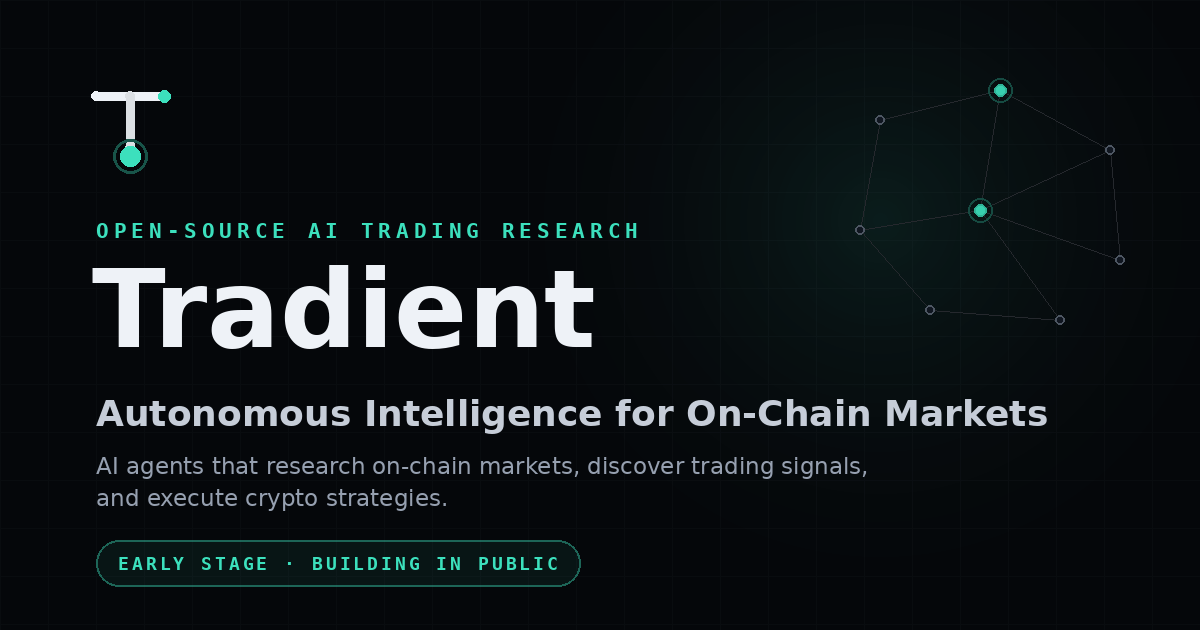
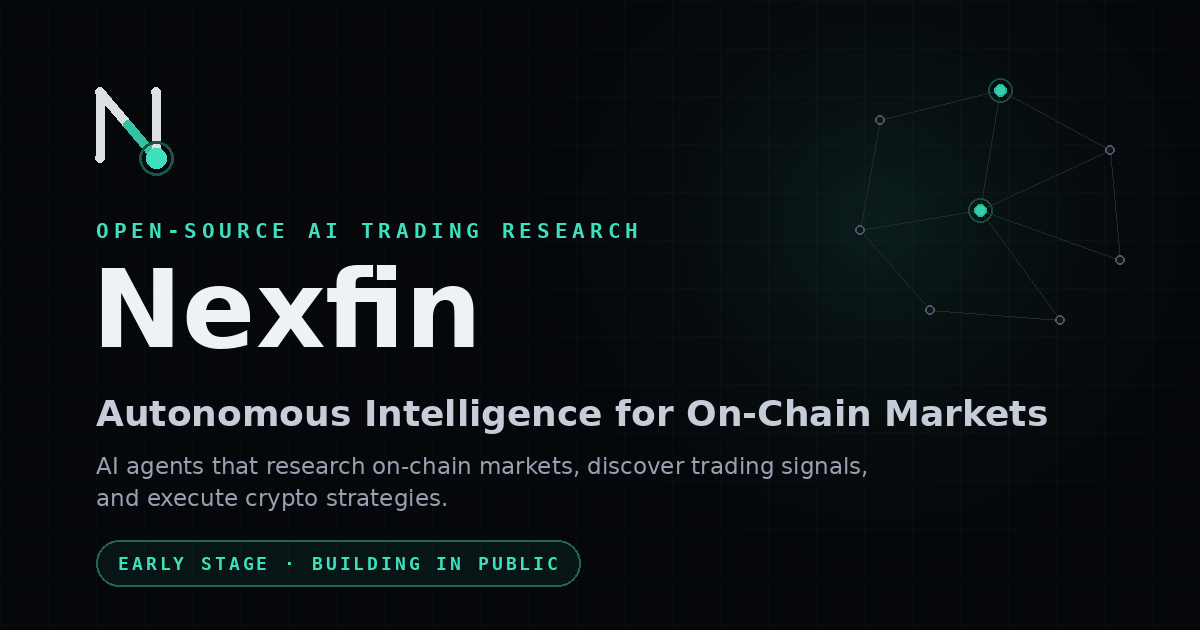
chnage name ...

Changed region(s): [[0.0617, 0.4222, 0.4933, 0.573], [0.0617, 0.1206, 0.1542, 0.2714]]

diff --git a/index.html b/index.html
@@ -6,10 +6,10 @@
     <meta name="color-scheme" content="dark" />
     <meta name="theme-color" content="#05070a" />
 
-    <title>Tradient — Autonomous Intelligence for On-Chain Markets</title>
+    <title>Nexfin — Autonomous Intelligence for On-Chain Markets</title>
     <meta
       name="description"
-      content="Tradient builds autonomous AI agents that research on-chain markets, discover trading signals, and execute crypto strategies. An open-source research platform for on-chain trading intelligence."
+      content="Nexfin builds autonomous AI agents that research on-chain markets, discover trading signals, and execute crypto strategies. An open-source research platform for on-chain trading intelligence."
     />
 
     <!--
@@ -24,8 +24,8 @@
 
     <!-- Open Graph -->
     <meta property="og:type" content="website" />
-    <meta property="og:site_name" content="Tradient" />
-    <meta property="og:title" content="Tradient — Autonomous Intelligence for On-Chain Markets" />
+    <meta property="og:site_name" content="Nexfin" />
+    <meta property="og:title" content="Nexfin — Autonomous Intelligence for On-Chain Markets" />
     <meta
       property="og:description"
       content="AI agents that research on-chain markets, discover trading signals, and execute crypto strategies. Built in the open."
@@ -34,11 +34,11 @@
     <meta property="og:image" content="https://your-org.github.io/og-image.png" />
     <meta property="og:image:width" content="1200" />
     <meta property="og:image:height" content="630" />
-    <meta property="og:image:alt" content="Tradient — Autonomous Intelligence for On-Chain Markets" />
+    <meta property="og:image:alt" content="Nexfin — Autonomous Intelligence for On-Chain Markets" />
 
     <!-- Twitter / X -->
     <meta name="twitter:card" content="summary_large_image" />
-    <meta name="twitter:title" content="Tradient — Autonomous Intelligence for On-Chain Markets" />
+    <meta name="twitter:title" content="Nexfin — Autonomous Intelligence for On-Chain Markets" />
     <meta
       name="twitter:description"
       content="AI agents that research on-chain markets, discover trading signals, and execute crypto strategies. Built in the open."
@@ -58,18 +58,18 @@
       {
         "@context": "https://schema.org",
         "@type": "Organization",
-        "name": "Tradient",
+        "name": "Nexfin",
         "url": "https://your-org.github.io/",
         "logo": "https://your-org.github.io/apple-touch-icon.png",
         "description": "Autonomous AI agents that research on-chain markets, discover trading signals, and execute crypto strategies.",
-        "sameAs": ["https://github.com/your-org/tradient"]
+        "sameAs": ["https://github.com/your-org/nexfin"]
       }
     </script>
   </head>
   <body>
     <div id="root">
       <noscript>
-        Tradient builds autonomous AI agents for on-chain market research, signal discovery, and
+        Nexfin builds autonomous AI agents for on-chain market research, signal discovery, and
         trading. Please enable JavaScript to view this site.
       </noscript>
     </div>

diff --git a/src/components/Logo.tsx b/src/components/Logo.tsx
@@ -2,12 +2,12 @@ import { useId } from 'react'
 import { cx } from '../lib/cx'
 
 /**
- * Tradient mark: a "T" built as a data rail — a gradient crossbar,
- * a stem, and a glowing signal node at the terminal.
+ * Nexfin mark: an "N" drawn as a signal path — two vertical rails joined
+ * by a gradient diagonal that terminates in a glowing signal node.
  */
 export function LogoMark({ className }: { className?: string }) {
   const rawId = useId().replace(/:/g, '')
-  const gradId = `tm-bar-${rawId}`
+  const gradId = `nx-bar-${rawId}`
 
   return (
     <svg
@@ -18,15 +18,16 @@ export function LogoMark({ className }: { className?: string }) {
       focusable="false"
     >
       <defs>
-        <linearGradient id={gradId} x1="6" y1="8" x2="26" y2="8" gradientUnits="userSpaceOnUse">
+        <linearGradient id={gradId} x1="8" y1="7" x2="24" y2="25" gradientUnits="userSpaceOnUse">
           <stop stopColor="#eef2f7" />
           <stop offset="1" stopColor="#3ce0bd" />
         </linearGradient>
       </defs>
-      <path d="M6 8h20" stroke={`url(#${gradId})`} strokeWidth="3" strokeLinecap="round" />
-      <path d="M16 8v13.5" stroke="#eef2f7" strokeWidth="3" strokeLinecap="round" opacity="0.92" />
-      <circle cx="16" cy="24" r="2.6" fill="#3ce0bd" />
-      <circle cx="16" cy="24" r="4.9" stroke="#3ce0bd" strokeOpacity="0.35" strokeWidth="1" />
+      <path d="M8 25V7" stroke="#eef2f7" strokeWidth="3" strokeLinecap="round" opacity="0.92" />
+      <path d="M8 7l16 18" stroke={`url(#${gradId})`} strokeWidth="3" strokeLinecap="round" />
+      <path d="M24 25V7" stroke="#eef2f7" strokeWidth="3" strokeLinecap="round" opacity="0.92" />
+      <circle cx="24" cy="25" r="2.6" fill="#3ce0bd" />
+      <circle cx="24" cy="25" r="4.9" stroke="#3ce0bd" strokeOpacity="0.35" strokeWidth="1" />
     </svg>
   )
 }
@@ -34,7 +35,7 @@ export function LogoMark({ className }: { className?: string }) {
 export function Wordmark({ className }: { className?: string }) {
   return (
     <span className={cx('text-[1.05rem] font-semibold tracking-tight text-white', className)}>
-      Tradient
+      Nexfin
     </span>
   )
 }

diff --git a/src/config/site.ts b/src/config/site.ts
@@ -1,6 +1,6 @@
 /**
  * ------------------------------------------------------------------
- * Tradient — central site configuration
+ * Nexfin — central site configuration
  * ------------------------------------------------------------------
  * This is the ONLY file you need to edit for links and branding.
  *
@@ -13,7 +13,7 @@
 export const GITHUB_ORG = 'your-org'
 
 /** Main product repository name. */
-export const GITHUB_REPO = 'tradient'
+export const GITHUB_REPO = 'nexfin'
 
 /** Main GitHub repository URL (navbar, hero, footer, CTAs). */
 export const GITHUB_URL = `https://github.com/${GITHUB_ORG}/${GITHUB_REPO}`
@@ -33,7 +33,7 @@ export const DOCS_URL = `${GITHUB_URL}#readme`
  * X / Twitter profile URL.
  * Leave as an empty string until the account exists — the footer will
  * render a disabled "coming soon" state instead of a dead link.
- * TODO: e.g. 'https://x.com/tradient'
+ * TODO: e.g. 'https://x.com/nexfin'
  */
 export const X_URL = ''
 
@@ -47,7 +47,7 @@ export const CONTACT_URL = ''
 
 /* ---------------- Branding ---------------- */
 
-export const SITE_NAME = 'Tradient'
+export const SITE_NAME = 'Nexfin'
 
 export const SITE_TAGLINE = 'Autonomous Intelligence for On-Chain Markets'
 

diff --git a/src/sections/Capabilities.tsx b/src/sections/Capabilities.tsx
@@ -28,7 +28,7 @@ const TAG_META: Record<CapabilityTag, { label: string; tone: TagTone }> = {
 }
 
 /**
- * Honest capability map: what Tradient is built to do today (core),
+ * Honest capability map: what Nexfin is built to do today (core),
  * what is being built next (roadmap), and how it is built (community).
  */
 const CAPABILITIES: Capability[] = [
@@ -64,7 +64,7 @@ const CAPABILITIES: Capability[] = [
   },
   {
     title: 'Open by Default',
-    body: 'The agent framework, research tooling, and documentation are designed for contributors from day one. Tradient is built in public.',
+    body: 'The agent framework, research tooling, and documentation are designed for contributors from day one. Nexfin is built in public.',
     tag: 'community',
     icon: IconFork,
   },
@@ -77,7 +77,7 @@ export function Capabilities() {
         <Reveal>
           <SectionHeading
             eyebrow="Capabilities"
-            title="What Tradient is built to do"
+            title="What Nexfin is built to do"
             description="A research-first platform: agents do the reading, measuring, and hypothesizing, so strategies are grounded in evidence rather than noise."
           />
         </Reveal>

diff --git a/src/sections/Pipeline.tsx b/src/sections/Pipeline.tsx
@@ -4,7 +4,7 @@ import { Reveal } from '../components/Reveal'
 import { SectionHeading } from '../components/SectionHeading'
 import { Tag } from '../components/Tag'
 
-/** The core Tradient workflow, exactly as the product is conceived. */
+/** The core Nexfin workflow, exactly as the product is conceived. */
 const FLOW = ['On-Chain Data', 'AI Agents', 'Signal Discovery', 'Strategy', 'Execution']
 
 interface Step {
@@ -45,7 +45,7 @@ export function Pipeline() {
           <SectionHeading
             eyebrow="Product Concept"
             title="From raw on-chain data to autonomous execution"
-            description="Tradient connects autonomous agents across the full research-to-trading loop. Every stage is modular and inspectable — designed so contributors can extend any layer of the pipeline."
+            description="Nexfin connects autonomous agents across the full research-to-trading loop. Every stage is modular and inspectable — designed so contributors can extend any layer of the pipeline."
           />
         </Reveal>
 

diff --git a/src/sections/Footer.tsx b/src/sections/Footer.tsx
@@ -107,7 +107,7 @@ export function Footer() {
         <div className="grid gap-10 md:grid-cols-2 lg:grid-cols-[1.5fr_1fr_1fr_1fr]">
           {/* Brand */}
           <div>
-            <a href="#top" className="flex items-center gap-2.5" aria-label="Tradient — back to top">
+            <a href="#top" className="flex items-center gap-2.5" aria-label="Nexfin — back to top">
               <LogoMark className="h-7 w-7" />
               <Wordmark />
             </a>
@@ -133,7 +133,7 @@ export function Footer() {
         </div>
 
         <div className="mt-12 flex flex-col gap-3 border-t border-edge/60 pt-6 md:flex-row md:items-center md:justify-between">
-          <p className="text-[11.5px] text-mist">© {year} Tradient. Built in the open.</p>
+          <p className="text-[11.5px] text-mist">© {year} Nexfin. Built in the open.</p>
           <p className="font-mono text-[10px] uppercase tracking-[0.16em] text-mist/70">
             Early-stage project · Not financial advice · No performance claims
           </p>

diff --git a/src/sections/Hero.tsx b/src/sections/Hero.tsx
@@ -36,7 +36,7 @@ export function Hero() {
                 crypto strategies.
               </p>
               <p className="mt-3 max-w-lg text-pretty text-[0.95rem] leading-relaxed text-mist">
-                Tradient is an open-source research platform for autonomous, data-driven trading —
+                Nexfin is an open-source research platform for autonomous, data-driven trading —
                 built in public from day one.
               </p>
             </Reveal>
@@ -44,7 +44,7 @@ export function Hero() {
             <Reveal delay={240}>
               <div className="mt-9 flex flex-wrap items-center gap-3">
                 <ButtonLink href="#product" size="lg" iconRight={<IconArrowRight className="h-4 w-4" />}>
-                  Explore Tradient
+                  Explore Nexfin
                 </ButtonLink>
                 <ButtonLink
                   href={GITHUB_URL}

diff --git a/src/sections/HeroVisual.tsx b/src/sections/HeroVisual.tsx
@@ -1,7 +1,7 @@
 /**
  * FIG. 01 — Autonomous Agent Mesh (conceptual).
  *
- * A pure-SVG, dependency-free visualization of Tradient's core idea:
+ * A pure-SVG, dependency-free visualization of Nexfin's core idea:
  * on-chain data sources feed an agent core; research / signal / strategy
  * agents orbit it; discovered signals flow to an output panel; and the
  * (roadmap) execution layer is drawn in dashed amber — visually honest
@@ -18,7 +18,7 @@ export function HeroVisual() {
         role="img"
         aria-labelledby="hv-title hv-desc"
       >
-        <title id="hv-title">Tradient agent mesh</title>
+        <title id="hv-title">Nexfin agent mesh</title>
         <desc id="hv-desc">
           Conceptual diagram: on-chain data sources — chains, markets and events — flow into an
           agent core surrounded by research, signal and strategy agents. Discovered signals feed an

diff --git a/src/sections/OpenSource.tsx b/src/sections/OpenSource.tsx
@@ -40,8 +40,8 @@ export function OpenSource() {
             <Reveal>
               <SectionHeading
                 eyebrow="Open Source"
-                title="Build Tradient With Us"
-                description="Tradient is currently led by a solo founder and is growing toward a small open-source team of 2–5 contributors."
+                title="Build Nexfin With Us"
+                description="Nexfin is currently led by a solo founder and is growing toward a small open-source team of 2–5 contributors."
               />
             </Reveal>
 

diff --git a/src/sections/Navbar.tsx b/src/sections/Navbar.tsx
@@ -68,7 +68,7 @@ export function Navbar() {
         aria-label="Main"
         className="mx-auto flex h-16 w-full max-w-6xl items-center justify-between px-5 md:h-[72px] md:px-8"
       >
-        <a href="#top" className="flex items-center gap-2.5" aria-label="Tradient — back to top">
+        <a href="#top" className="flex items-center gap-2.5" aria-label="Nexfin — back to top">
           <LogoMark className="h-7 w-7" />
           <Wordmark />
         </a>

diff --git a/src/index.css b/src/index.css
@@ -1,7 +1,7 @@
 @import "tailwindcss";
 
 /* ------------------------------------------------------------------
-   Tradient design tokens (Tailwind v4 CSS-first theme)
+   Nexfin design tokens (Tailwind v4 CSS-first theme)
    Dark, minimal, technical: near-black base, hairline edges,
    one restrained "signal" accent + amber for roadmap semantics.
 ------------------------------------------------------------------- */

diff --git a/src/components/Terminal.tsx b/src/components/Terminal.tsx
@@ -34,7 +34,7 @@ export function Terminal() {
         <span aria-hidden className="h-2.5 w-2.5 rounded-full bg-white/12" />
         <span aria-hidden className="h-2.5 w-2.5 rounded-full bg-white/12" />
         <span className="ml-2 font-mono text-[11px] text-mist">
-          contributor@tradient — getting started
+          contributor@nexfin — getting started
         </span>
       </div>
 
